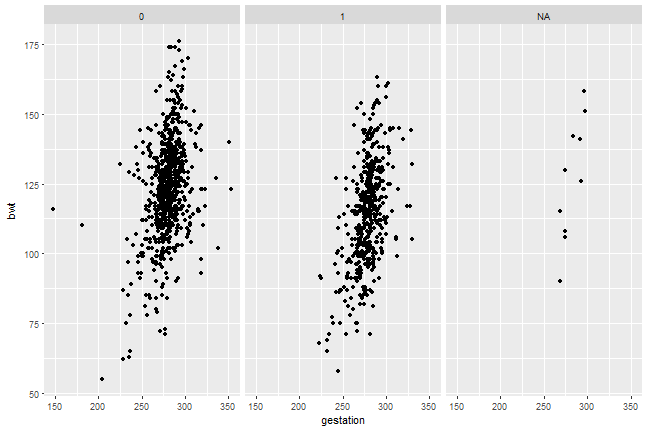
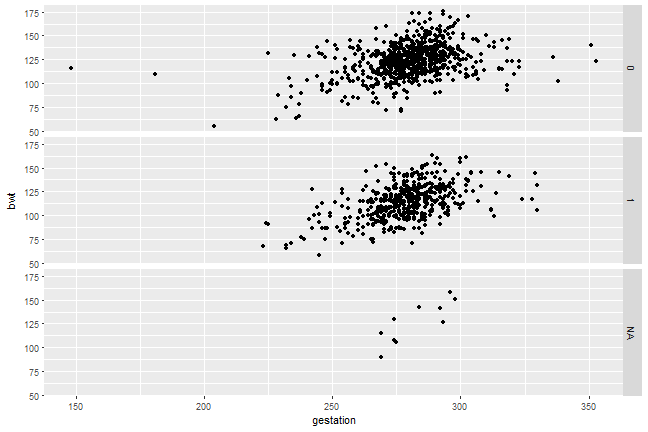
first pass at 6 and 8 and slight changes in others.

diff --git a/slides/8-other.html b/slides/8-other.html
@@ -68,22 +68,24 @@ All the cool things you can check out later in depth
 
 ---
 
-naniar
-gganimate
-shiny
-xaringan
-rticles
-stringr
-patchwork
-kableExtra
-github - show our example reproducible workflows
-here::here()
 
-There is a package for everything.
+[gganimate](https://github.com/thomasp85/gganimate) for Animated ggplots  
+[patchwork](https://github.com/thomasp85/patchwork) for displaying multiple ggplots  
+[shiny](https://shiny.rstudio.com/gallery/) for web apps  
+[xaringan](https://github.com/yihui/xaringan) for being a Presentation Ninja with .Rmd  
+[stringr](stringr) for dealing with strings   
+[rticles](rticles) for LaTeX journal article templates  
+[naniar](https://github.com/njtierney/naniar) for summarizing missing data  
+[kableExtra](https://cran.r-project.org/web/packages/kableExtra/vignettes/awesome_table_in_html.html) for beautiful HTML tables   
+[blogdown](https://bookdown.org/yihui/blogdown/)for creating websites  
+[github](https://happygitwithr.com/) for version control
 
-If there is not, then you can build your own package.
+---
+class: middle center
 
+In short, there is a package for everything.
 
+If there is not, then you can build your own package. 
 
 ---
 
@@ -106,6 +108,7 @@ Mine Dogucu
 [@MineDogucu](https://twitter.com/MineDogucu)
 
 [mdogucu@uci.edu](mailto:mdogucu@uci.edu)
+
 
 ---
 ## Schedule for the Day

diff --git a/slides/6-practice.html b/slides/6-practice.html
@@ -39,12 +39,38 @@ class: center, middle
 
 More information can be found [here](https://creativecommons.org/licenses/by-sa/2.5/)
 
-LAPD dataset
+---
+## LAPD dataset
+
+
+1. How many full time staff are there? 
+2. How many different job class titles are there?
+3. Which of the Employment Type group earn the highest Hourly or Event Rate? 
+4. Do you notice anything interesting? Investigate. 
+5. Is this interesting thing only limited to a single year?
 
 ---
+## LAPD dataset 2018
 
+6. Moving on we will only use 2018 dataset. Subset the data to only keep observations from 2018 and variables `Employment Type`, `Hourly or Event Rate`, `Total Payments`, `Average Health Cost`, and `Benefits Plan`.
 
+7. Write this subset data to a file called `lapd_subset,csv`. 
 
+---
+## LAPD dataset 2018 - Total Payments
+
+8. Start a fresh new .Rmd document. Read in `lapd_subset.csv`.
+
+9. What does the distribution of Total Payments look like? What is your expectation?
+
+10. What are the minimum and maximum total payments?
+
+---
+## LAPD dataset 2018 - Benefits
+
+11. How many people have the "Police" benefits plan?
+
+12. What is the percentage of those who have the "Police" benefits plan?
 
 ---
 

diff --git a/slides/2-visualization.html b/slides/2-visualization.html
@@ -809,7 +809,7 @@ ggplot(babies) +
   aes(x = gestation,
       y = bwt) +
   geom_point() +
-  facet_grid(rows = vars(smoke))
+  facet_grid(.~smoke)
 ```
 ]
 .right-panel[
@@ -832,7 +832,7 @@ ggplot(babies) +
   aes(x = gestation,
       y = bwt) +
   geom_point() +
-  facet_grid(cols = vars(smoke))
+  facet_grid(smoke~.)
 ```
 ]
 .right-panel[
@@ -847,6 +847,13 @@ ggplot(babies) +
 
 ---
 
+class: center middle 
+
+## Equations
+
+y ~ x
+
+---
 ## Problems
 
 Even though we could facet the plots, the data is problematic
@@ -891,6 +898,12 @@ ggplot(candy_rankings) +
 ## Fun fact
 
 - [BBC](https://bbc.github.io/rcookbook/), [fivethirtyeight](https://rdrr.io/cran/ggthemes/man/theme_fivethirtyeight.html), [Associated Press](https://github.com/associatedpress/apstyle), and many others use ggplot2.
+
+---
+
+class: center middle
+
+[RStudio Cheat Sheets](https://rstudio.com/resources/cheatsheets/)
 
 ---
 ## Schedule for the Day

diff --git a/slides/0-welcome.html b/slides/0-welcome.html
@@ -134,6 +134,7 @@ slido.com   - Event code on the white board
 - Community (definitely the number 1 reason). 
 - It is free.
 - It is open source (more on this later).
+- Not only the language but also the culture around it mostly favoring open source.
 
 ---
 
